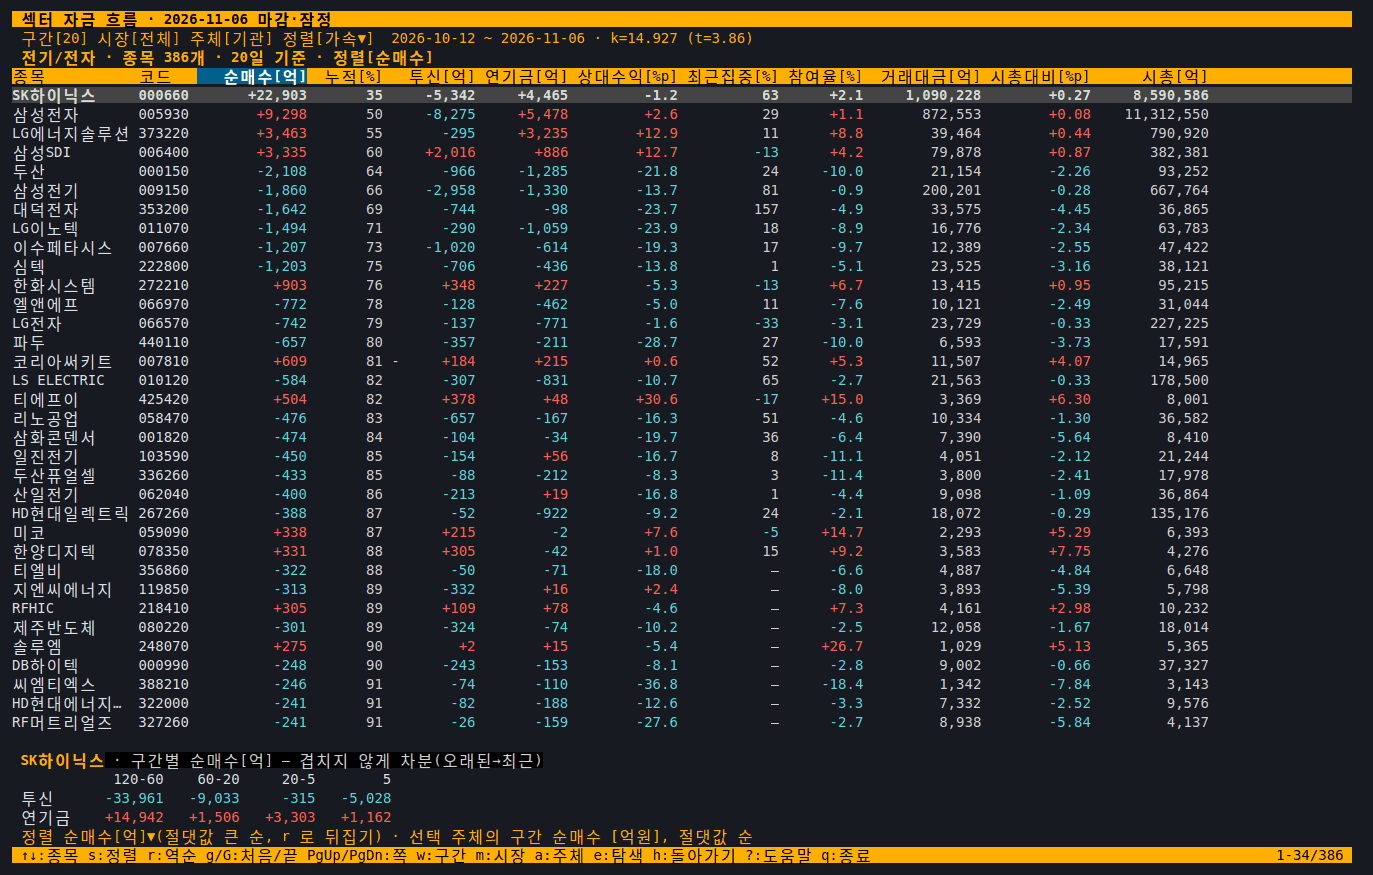
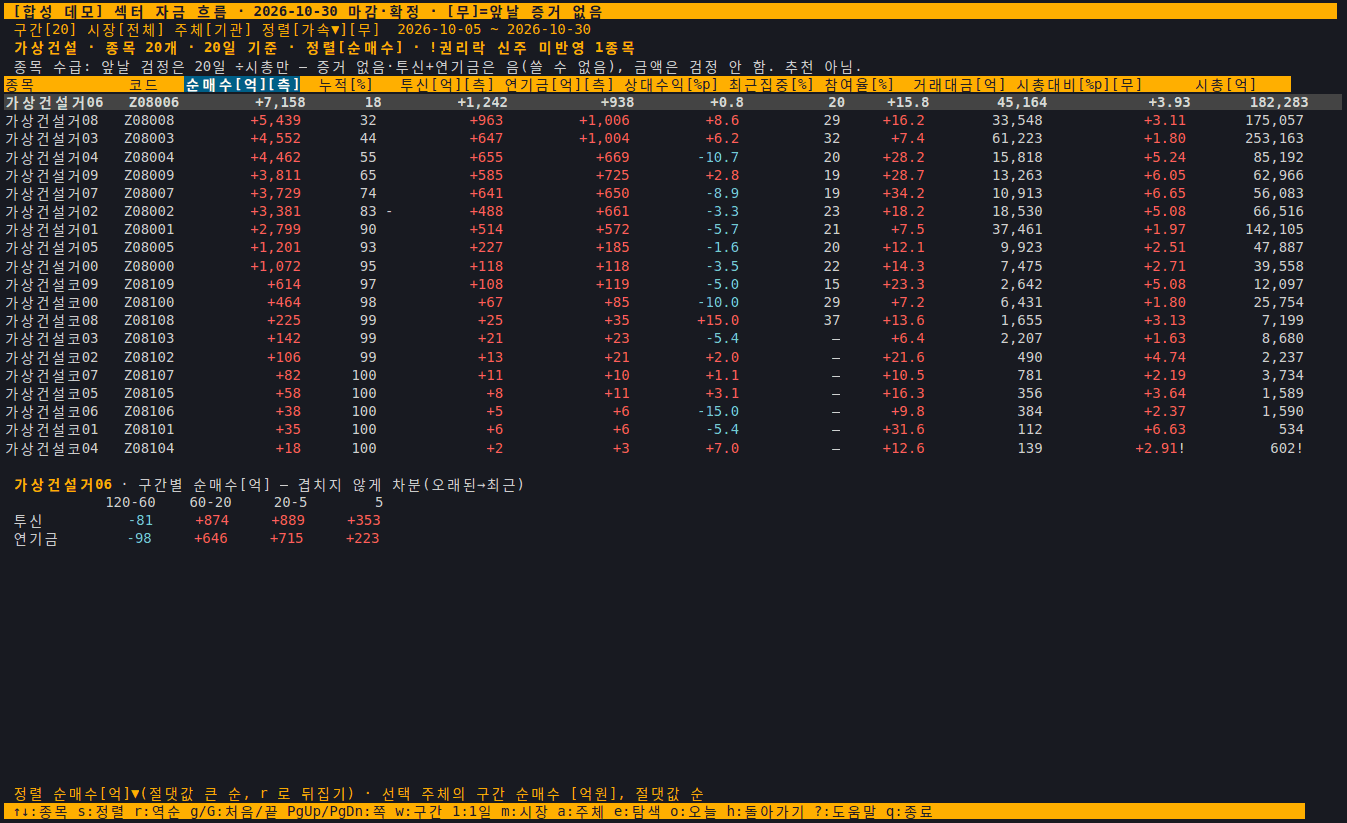
docs(images): README 그림 7장을 합성 데모로 다시 찍고 신선도 원장을 묶는다
실종목·실숫자를 그림에서 뺐다(표지 [합성 데모]). 터미널 tmux 160×45, 웹 Chromium 1440·390. 도구 scripts/demo_shots.py.
원장 docs/SCREENSHOTS.md 와 tests/test_screenshots_fresh.py — younghwan91/shots 218cd25 를 가져오고 감시 경로에 demo.py 를 더했다.

diff --git a/tests/test_screenshots_fresh.py b/tests/test_screenshots_fresh.py
@@ -1,0 +1,107 @@
+"""README 스크린샷이 **지금 화면 코드**로 찍힌 것인가 — docs/SCREENSHOTS.md 원장 대조, 그리고 찍는 도구(scripts/demo_shots.py).
+
+스크린샷은 커밋 사이에서 조용히 썩는다 — 화면 코드가 열 번 바뀌어도 PNG 는 그대로라
+README 가 없는 화면을 보여준다(2026-11-08 촬영본이 열 번의 UI 머지를 지나 낡았다).
+날짜 비교는 화면과 무관한 커밋에도 울어서 못 쓴다. 대신 원장이 "찍은 커밋" sha 를 적고,
+여기서 그 sha 와 HEAD 의 **감시 경로 git 트리**를 비교한다 — 트리가 다르면 화면이
+바뀐 것이고, 스크린샷을 다시 찍고 원장 sha 를 갱신해야 통과한다.
+
+한계: HEAD 끼리의 비교다 — 커밋 안 한 작업 트리 수정은 못 본다(CI 는 커밋을 보니 충분하다).
+"""
+from __future__ import annotations
+
+import importlib.util
+import re
+import subprocess
+from pathlib import Path
+
+import pytest
+
+REPO = Path(__file__).resolve().parent.parent
+MANIFEST = REPO / "docs" / "SCREENSHOTS.md"
+
+#: | docs/images/….png | 감시 경로 | sha |
+ROW = re.compile(r"^\|\s*(docs/images/\S+?\.png)\s*\|\s*(\S+?)/?\s*\|\s*([0-9a-f]{40})\s*\|",
+                 re.MULTILINE)
+README_IMG = re.compile(r"\]\((docs/images/[\w.-]+\.png)\)")
+
+
+def _git(*args: str) -> subprocess.CompletedProcess:
+    return subprocess.run(["git", "-C", str(REPO), *args], capture_output=True, text=True)
+
+
+def _rows() -> list[tuple[str, str, str]]:
+    rows = ROW.findall(MANIFEST.read_text("utf-8"))
+    assert rows, f"{MANIFEST} 에서 원장 행을 하나도 못 읽었다 — 표 형식이 바뀌었나"
+    return rows
+
+
+def _need_git() -> None:
+    if _git("rev-parse", "--is-inside-work-tree").returncode != 0:
+        pytest.skip("git 저장소가 아니다(배포 트리?) — 원장 대조는 git 트리가 필요하다")
+
+
+def test_ui_change_after_manifest_sha_demands_retake():
+    """감시 경로의 트리가 원장 sha 이후 바뀌었으면 '스크린샷 재촬영' 으로 실패한다."""
+    _need_git()
+    stale, broken = [], []
+    for img, watched, sha in _rows():
+        then = _git("rev-parse", f"{sha}:{watched}")
+        now = _git("rev-parse", f"HEAD:{watched}")
+        if then.returncode != 0 or now.returncode != 0:
+            broken.append(f"{img}: {sha[:12]}:{watched} 또는 HEAD:{watched} 를 git 이 모른다 — "
+                          f"{(then.stderr or now.stderr).strip()}")
+        elif then.stdout.strip() != now.stdout.strip():
+            stale.append(f"{img} — {watched} 가 {sha[:12]} 이후 바뀌었다")
+    assert not broken, "원장을 대조할 수 없다:\n  " + "\n  ".join(broken)
+    assert not stale, ("스크린샷 재촬영: 화면 코드가 바뀌었는데 스크린샷은 옛 코드다.\n  "
+                       + "\n  ".join(stale)
+                       + "\n  다시 찍고 docs/SCREENSHOTS.md 의 sha 를 갱신하라(찍는 법은 그 문서).")
+
+
+def test_every_readme_image_is_in_the_manifest():
+    """README 가 쓰는 docs/images/*.png 는 전부 원장에 있고, 원장의 파일도 실제로 있다."""
+    used = set(README_IMG.findall((REPO / "README.md").read_text("utf-8")))
+    assert used, "README 에서 docs/images 참조를 하나도 못 읽었다 — 패턴이 낡았나"
+    listed = {img for img, _, _ in _rows()}
+    missing = sorted(used - listed)
+    assert not missing, ("README 가 쓰는 이미지가 docs/SCREENSHOTS.md 원장에 없다 — "
+                         "원장 밖 이미지는 신선도 검사를 안 받는다: " + ", ".join(missing))
+    gone = sorted(p for p in listed if not (REPO / p).is_file())
+    assert not gone, "원장이 적은 이미지 파일이 없다: " + ", ".join(gone)
+
+
+def _shots():
+    spec = importlib.util.spec_from_file_location("_shots", REPO / "scripts" / "demo_shots.py")
+    mod = importlib.util.module_from_spec(spec)
+    spec.loader.exec_module(mod)
+    return mod
+
+
+def test_stamp_rewrites_every_manifest_row_and_only_those():
+    """찍은 뒤 sha 를 다 고친다 — 한 줄이라도 남으면 그 그림만 옛 코드로 적힌다. 감시 경로는 표에서 읽는다."""
+    S = _shots()
+    text = MANIFEST.read_text("utf-8")
+    new = S.stamp_manifest(text, "a" * 40)
+    assert len(_rows()) == new.count("a" * 40) and new.split("|---")[0] == text.split("|---")[0]
+    assert set(S.watched(text)) == {p.rstrip("/") for _i, p, _s in _rows()}
+    assert {"src/sectorflow/demo.py", "src/sectorflow/tui", "scripts/templates"} <= set(S.watched(text))
+
+
+def test_ansi_to_html_keeps_color_width_and_trims_only_when_asked():
+    S = _shots()
+    raw = "\x1b[38;5;196m빨강\x1b[0m a\n\x1b[1m굵게\x1b[22m\n\n"
+    page = S.ansi_html(raw)
+    assert 'color:#ff0000' in page and "font-weight:700" in page
+    assert '<span class="g2">빨</span>' in page, "한글은 2칸 격자에 넣어야 표 열이 안 어긋난다"
+    assert page.count('class="r"') == 3
+    assert S.ansi_html(raw, trim=True).count('class="r"') == 2
+
+
+def test_attachment_rewrite_replaces_blocks_in_order_and_refuses_a_changed_format():
+    S = _shots()
+    doc = "# t\n\n```\nold1\n```\nmid\n```\nold2\n```\n"
+    new = S.rewrite_attachment(doc, ["A\nB", "C"])
+    assert S.attachment_blocks(new) == ["A\nB", "C"] and "mid" in new and "old" not in new
+    with pytest.raises(SystemExit):
+        S.rewrite_attachment(doc, ["A"])

diff --git a/docs/SCREENSHOTS.md b/docs/SCREENSHOTS.md
@@ -1,0 +1,31 @@
+# 스크린샷 원장
+
+README 가 쓰는 `docs/images/*.png` 가 **어느 코드로 찍혔나**를 적는다. `tests/test_screenshots_fresh.py` 가
+이 표의 커밋과 지금 HEAD 에서 감시 경로의 git 트리를 비교해, 화면 코드가 바뀌었는데 그림이 그대로면
+`스크린샷 재촬영` 으로 실패한다. 날짜가 아니라 트리를 비교한다 — 화면과 무관한 커밋으로는 울지 않는다.
+
+그림은 전부 **합성 데모**다(실종목·실숫자 없음, 제목 줄과 웹 맨 위에 `[합성 데모]`). 다시 찍는 법:
+
+```
+uv run --with playwright --with pillow python scripts/demo_shots.py
+```
+
+감시 경로를 커밋한 뒤 돌린다 — 도구가 그림 7장을 찍고 이 표를 HEAD 로 고친다. 터미널은 tmux 160×45
+`capture-pane -e` → ANSI → HTML → Chromium(128색), 웹은 Chromium 1440·390(DPR 2, 64색)이고 그림당 약 100KB 안이다.
+
+| 이미지 | 감시 경로 | 찍은 커밋 |
+|---|---|---|
+| docs/images/kqflow-today.png | src/sectorflow/tui/ | 7ef0e120dbeca69b1d637b74e2b93d3ce2eccabb |
+| docs/images/kqflow-today.png | src/sectorflow/demo.py | 7ef0e120dbeca69b1d637b74e2b93d3ce2eccabb |
+| docs/images/kqflow-table.png | src/sectorflow/tui/ | 7ef0e120dbeca69b1d637b74e2b93d3ce2eccabb |
+| docs/images/kqflow-table.png | src/sectorflow/demo.py | 7ef0e120dbeca69b1d637b74e2b93d3ce2eccabb |
+| docs/images/kqflow-names.png | src/sectorflow/tui/ | 7ef0e120dbeca69b1d637b74e2b93d3ce2eccabb |
+| docs/images/kqflow-names.png | src/sectorflow/demo.py | 7ef0e120dbeca69b1d637b74e2b93d3ce2eccabb |
+| docs/images/kqflow-combined.png | src/sectorflow/tui/ | 7ef0e120dbeca69b1d637b74e2b93d3ce2eccabb |
+| docs/images/kqflow-combined.png | src/sectorflow/demo.py | 7ef0e120dbeca69b1d637b74e2b93d3ce2eccabb |
+| docs/images/kqledger-table.png | src/sectorflow/tui/ | 7ef0e120dbeca69b1d637b74e2b93d3ce2eccabb |
+| docs/images/kqledger-table.png | src/sectorflow/demo.py | 7ef0e120dbeca69b1d637b74e2b93d3ce2eccabb |
+| docs/images/web-today.png | scripts/templates/ | 7ef0e120dbeca69b1d637b74e2b93d3ce2eccabb |
+| docs/images/web-today.png | src/sectorflow/demo.py | 7ef0e120dbeca69b1d637b74e2b93d3ce2eccabb |
+| docs/images/web-today-mobile.png | scripts/templates/ | 7ef0e120dbeca69b1d637b74e2b93d3ce2eccabb |
+| docs/images/web-today-mobile.png | src/sectorflow/demo.py | 7ef0e120dbeca69b1d637b74e2b93d3ce2eccabb |
